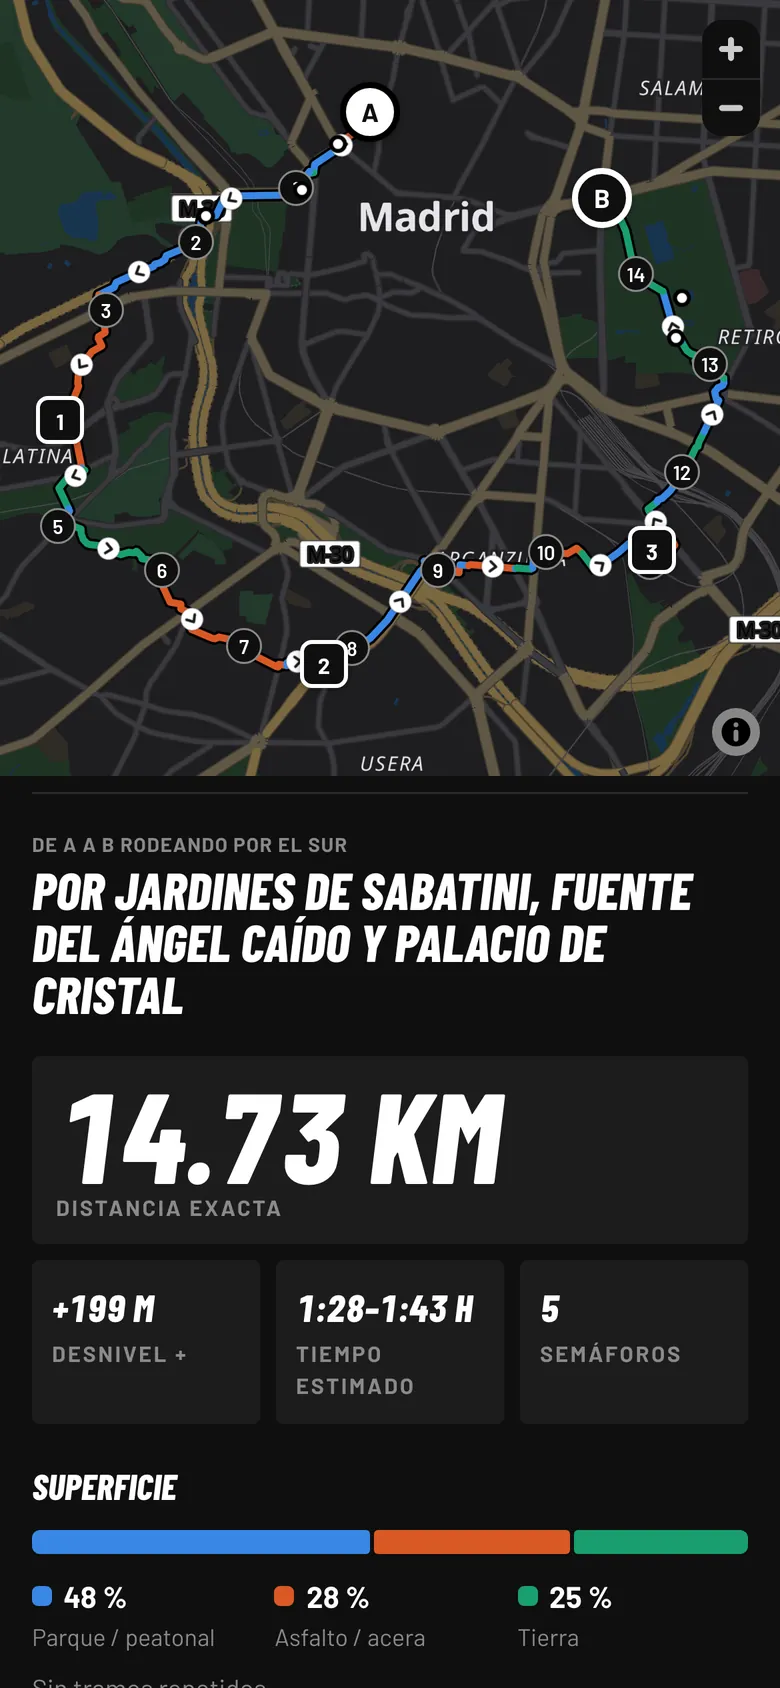
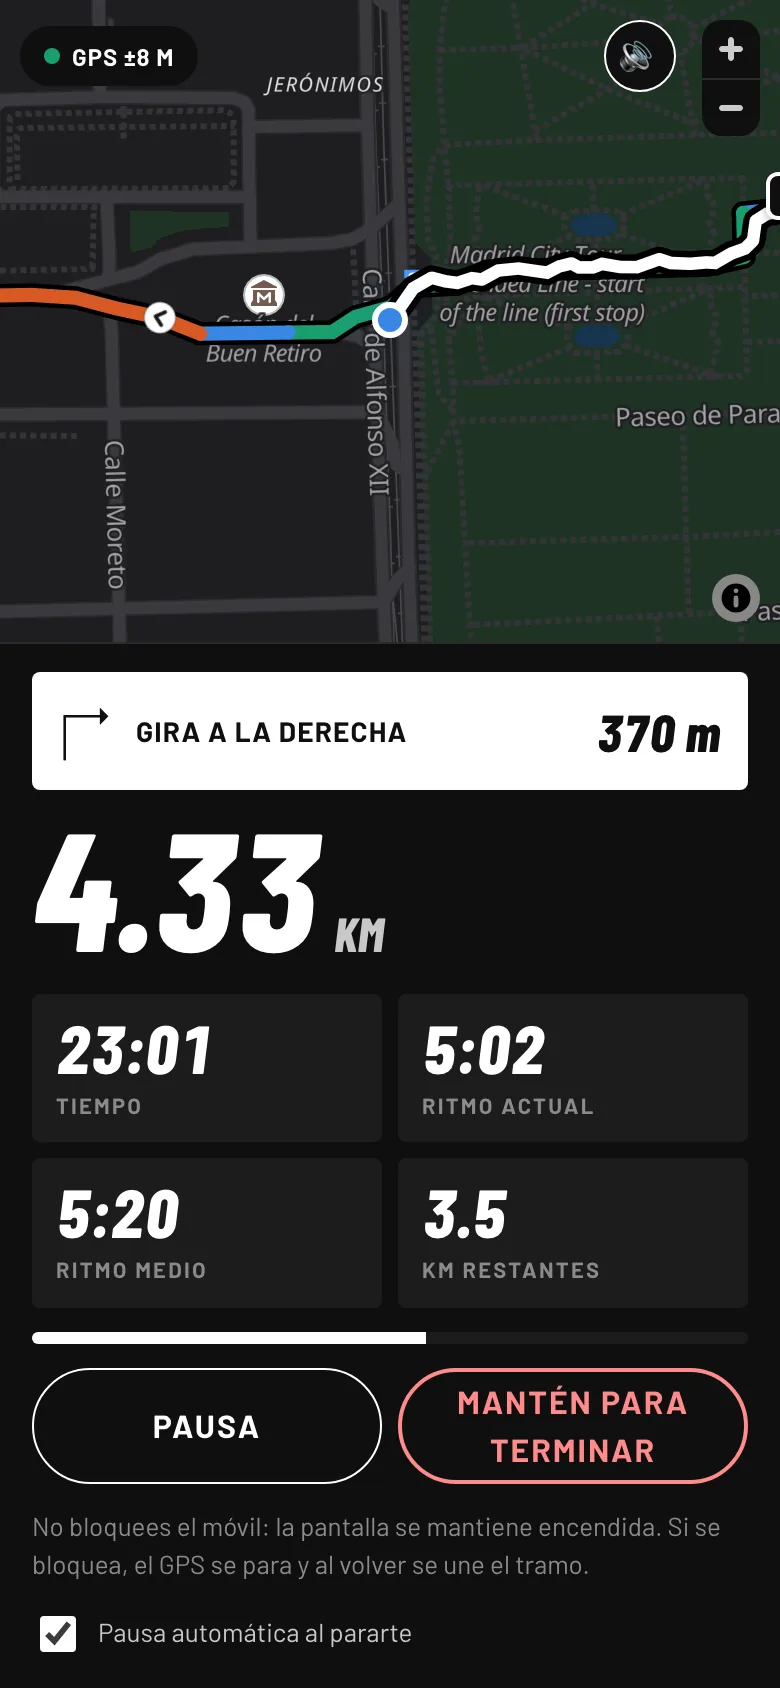
Rutas A→B: modo carrera en la descripción y captura nueva

diff --git a/index.html b/index.html
@@ -78,7 +78,7 @@
         </a>
         <a href="https://danielcs94.github.io/rutas-ab/" target="_blank" rel="noopener" class="shot shot-phone" data-goatcounter-click="portfolio-captura-rutas-ab" data-goatcounter-title="Captura de Rutas A→B">
           <img src="assets/rutas-ab-movil.webp" width="780" height="1688" loading="lazy"
-               alt="Rutas A→B en el móvil, en modo oscuro">
+               alt="Modo carrera de Rutas A→B en el móvil: 4,33 km recorridos, ritmo actual 5:02 y aviso de giro a la derecha en 370 m">
         </a>
       </div>
 
@@ -95,7 +95,9 @@
           </p>
           <p class="project-desc">
             Cada ruta trae su desnivel, cuánto es asfalto, parque o tierra, los semáforos y una sesión
-            de entrenamiento, y se abre en Google Maps o se descarga en GPX. Funciona entera en el
+            de entrenamiento. Luego la puedes correr desde la propia app: con el GPS del móvil te dice
+            la distancia y el ritmo, te avisa por voz de los giros y de si te sales de la ruta, y al
+            terminar te da los parciales y el GPX para subirlo a Strava. Funciona entera en el
             navegador, sin backend ni APIs de pago, y se instala en el móvil como una app.
           </p>
           <p class="project-desc featured-origin">
@@ -130,6 +132,7 @@
             <li>Un trazado de 42 km no cabe en la URL de una petición GET. Lo envío por POST como texto plano, que evita la consulta previa de CORS y no tiene límite de tamaño.</li>
             <li>Algunos puntos al azar caen en sitios sin acceso a pie. Se enganchan solo a calles bien conectadas y, si aun así fallan, se usa otro router o se descarta esa ruta.</li>
             <li>Con la elipse, las rutas siempre rodeaban la ciudad por fuera. Añadí una segunda forma en zigzag, con los puntos alternando a cada lado del camino directo, para poder cruzarla por en medio.</li>
+            <li>El GPS del móvil baila unos metros en cada lectura e inflaba la distancia de la carrera. Mientras vas por la ruta, la distancia se mide sobre ella y el GPS solo cuenta cuando te sales: menos de un 1 % de error con buena señal en carreras simuladas.</li>
           </ul>
         </div>
       </div>
